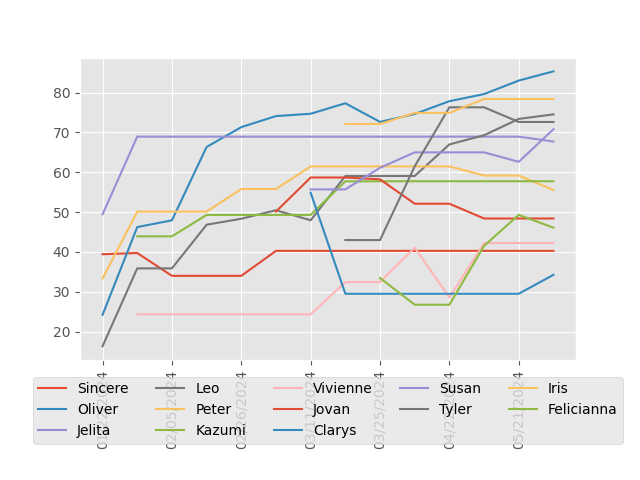
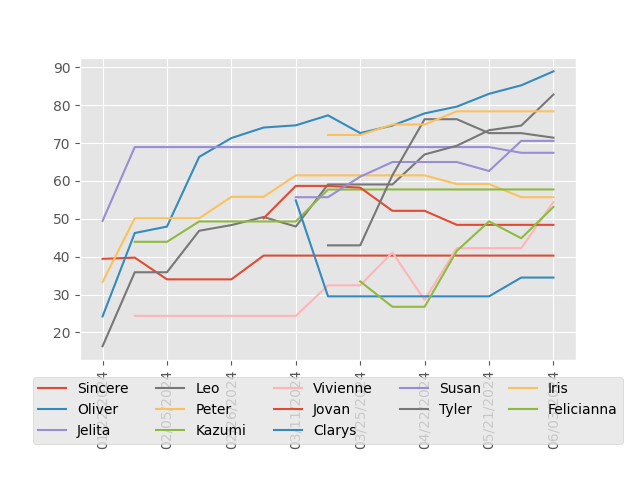
update rankings

diff --git a/README.md b/README.md
@@ -6,38 +6,40 @@
 | Player | ELO | Wins | Losses | Win % | Best Game |
 | --- | --- | --- | --- | --- | --- |
 | Ted | 109.30 | 9 | 0 | 100% | Fetch |
+| Oliver | 88.92 | 21 | 28 | 43% | Camel Up |
 | Simon | 86.00 | 7 | 1 | 88% | Secret Hitler |
-| Oliver | 85.31 | 20 | 27 | 43% | Coup |
+| Leo | 82.80 | 15 | 20 | 43% | Codenames |
 | Iris | 78.37 | 5 | 6 | 45% | Codenames |
-| Leo | 74.52 | 14 | 19 | 42% | Codenames |
-| Tyler | 72.61 | 6 | 6 | 50% | Camel Up |
-| Susan | 70.80 | 6 | 6 | 50% | Wavelength |
-| Jelita | 67.71 | 5 | 5 | 50% | Secret Hitler |
+| Tyler | 71.41 | 6 | 8 | 43% | Camel Up |
+| Susan | 70.57 | 6 | 6 | 50% | Wavelength |
+| Jelita | 67.42 | 5 | 5 | 50% | Secret Hitler |
 | Aaron | 61.04 | 5 | 4 | 56% | Bang |
 | Jackie | 58.22 | 2 | 1 | 67% | Wavelength |
 | Kazumi | 57.74 | 4 | 8 | 33% | Camel Up |
 | Abhi | 56.81 | 3 | 1 | 75% | Avalon |
+| Peter | 55.70 | 7 | 11 | 39% | Bang |
 | Kenny | 55.66 | 3 | 3 | 50% | Codenames |
-| Peter | 55.55 | 7 | 11 | 39% | Bang |
 | Harsha | 55.11 | 5 | 4 | 56% | Wavelength |
-| Sammie | 49.51 | 2 | 1 | 67% | Codenames |
+| Vivienne | 54.44 | 4 | 7 | 36% | Avalon |
+| Felicianna | 53.13 | 5 | 11 | 31% | Camel Up |
+| Sammi | 50.13 | 3 | 2 | 60% | Bang |
+| Viktoria | 48.54 | 2 | 6 | 25% | Love Letter |
 | Jovan | 48.40 | 5 | 7 | 42% | Secret Hitler |
 | Dan | 48.28 | 2 | 5 | 29% | Wavelength |
-| Viktoria | 46.85 | 2 | 5 | 29% | Love Letter |
-| Felicianna | 46.10 | 5 | 9 | 36% | Codenames |
-| Vivienne | 42.26 | 3 | 7 | 30% | Avalon |
 | Sincere | 40.28 | 3 | 8 | 27% | Coup |
 | Siri | 39.66 | 1 | 3 | 25% | Love Letter |
+| Leonardo | 37.58 | 0 | 1 | 0% | Camel Up |
 | Joyce | 35.20 | 0 | 1 | 0% | Shifty Eyed Spies |
 | Icy | 35.20 | 0 | 1 | 0% | Shifty Eyed Spies |
-| Clarys | 34.26 | 3 | 7 | 30% | Love Letter |
-| Wincy | 33.12 | 1 | 2 | 33% | Secret Hitler |
+| Clarys | 34.49 | 3 | 7 | 30% | Love Letter |
+| Wincy | 32.69 | 1 | 2 | 33% | Secret Hitler |
 | Julie | 32.58 | 0 | 1 | 0% | Incan Gold |
+| Feliciann | 31.43 | 0 | 1 | 0% | Bang |
 | Queenie | 31.20 | 2 | 7 | 22% | Codenames |
-| Feliciann | 30.77 | 0 | 1 | 0% | Secret Hitler |
+| Cameron | 29.64 | 0 | 1 | 0% | Camel Up |
 | Rebecca | 29.07 | 0 | 1 | 0% | Avalon |
 | Daphne | 27.49 | 0 | 1 | 0% | Secret Hitler |
-| Sara | 26.61 | 1 | 8 | 11% | Exploding Kittens |
+| Sara | 26.83 | 1 | 8 | 11% | Exploding Kittens |
 | Dorine | 25.68 | 1 | 3 | 25% | Avalon |
 | Trista | 24.24 | 1 | 8 | 11% | Wavelength |
 | Ellabelle | 21.78 | 0 | 3 | 0% | Secret Hitler |
@@ -97,14 +99,18 @@
 
 | Player | ELO | Wins | Losses | Win % |
 | --- | --- | --- | --- | --- |
-| Oliver | 49.61  | 1 | 0 | 100% |
+| Vivienne | 50.21  | 1 | 0 | 100% |
+| Sammi | 50.21  | 1 | 0 | 100% |
 | Peter | 49.61  | 1 | 0 | 100% |
 | Aaron | 49.61  | 1 | 0 | 100% |
+| Leo | 49.38  | 1 | 1 | 50% |
+| Oliver | 47.32  | 1 | 1 | 50% |
 | Kazumi | 36.10  | 0 | 1 | 0% |
 | Jelita | 36.10  | 0 | 1 | 0% |
-| Leo | 36.10  | 0 | 1 | 0% |
 | Trista | 36.10  | 0 | 1 | 0% |
 | Sincere | 36.10  | 0 | 1 | 0% |
+| Tyler | 34.49  | 0 | 1 | 0% |
+| Feliciann | 34.49  | 0 | 1 | 0% |
 
 ### Secret Hitler
 
@@ -113,31 +119,30 @@
 | Simon | 64.08  | 4 | 0 | 100% |
 | Tyler | 58.03  | 3 | 0 | 100% |
 | Jovan | 55.39  | 3 | 0 | 100% |
-| Jelita | 51.55  | 2 | 0 | 100% |
-| Oliver | 47.33  | 4 | 3 | 57% |
-| Susan | 46.70  | 2 | 1 | 67% |
-| Peter | 45.58  | 2 | 1 | 67% |
-| Wincy | 42.84  | 1 | 0 | 100% |
+| Jelita | 51.83  | 2 | 0 | 100% |
+| Oliver | 47.55  | 4 | 3 | 57% |
+| Susan | 46.96  | 2 | 1 | 67% |
+| Peter | 45.39  | 2 | 1 | 67% |
+| Wincy | 43.13  | 1 | 0 | 100% |
 | Harsha | 42.82  | 1 | 0 | 100% |
 | Kazumi | 42.70  | 2 | 1 | 67% |
-| Felicianna | 41.38  | 2 | 1 | 67% |
 | Viktoria | 40.70  | 1 | 0 | 100% |
 | Jackie | 40.70  | 1 | 0 | 100% |
 | Vivienne | 38.76  | 1 | 1 | 50% |
 | Queenie | 36.16  | 1 | 1 | 50% |
-| Leo | 34.58  | 2 | 3 | 40% |
+| Felicianna | 35.94  | 2 | 2 | 50% |
+| Leo | 34.41  | 2 | 3 | 40% |
 | Aaron | 32.00  | 1 | 2 | 33% |
-| Clarys | 30.70  | 1 | 2 | 33% |
+| Clarys | 30.51  | 1 | 2 | 33% |
 | Dorine | 29.11  | 0 | 1 | 0% |
 | Dan | 29.11  | 0 | 1 | 0% |
 | Siri | 27.85  | 0 | 1 | 0% |
 | Daphne | 27.53  | 0 | 1 | 0% |
-| Feliciann | 27.47  | 0 | 1 | 0% |
 | Ellabelle | 27.00  | 0 | 1 | 0% |
-| Sammie | 27.00  | 0 | 1 | 0% |
+| Sammi | 27.00  | 0 | 1 | 0% |
 | Kenny | 26.94  | 0 | 1 | 0% |
 | Iris | 22.88  | 0 | 2 | 0% |
-| Sara | 21.37  | 0 | 2 | 0% |
+| Sara | 21.17  | 0 | 2 | 0% |
 | Trista | 17.64  | 0 | 3 | 0% |
 
 ### Codenames
@@ -149,7 +154,7 @@
 | Oliver | 61.65  | 6 | 4 | 60% |
 | Kenny | 46.59  | 2 | 1 | 67% |
 | Felicianna | 46.59  | 2 | 0 | 100% |
-| Sammie | 46.59  | 2 | 0 | 100% |
+| Sammi | 46.59  | 2 | 0 | 100% |
 | Jelita | 43.90  | 1 | 0 | 100% |
 | Kazumi | 43.90  | 1 | 0 | 100% |
 | Harsha | 42.43  | 1 | 1 | 50% |
@@ -214,15 +219,20 @@
 
 | Player | ELO | Wins | Losses | Win % |
 | --- | --- | --- | --- | --- |
-| Tyler | 63.39  | 1 | 0 | 100% |
-| Oliver | 57.71  | 1 | 1 | 50% |
-| Leo | 54.15  | 0 | 2 | 0% |
+| Oliver | 78.43  | 2 | 1 | 67% |
+| Leo | 68.26  | 0 | 3 | 0% |
+| Tyler | 66.07  | 1 | 1 | 50% |
+| Felicianna | 50.68  | 0 | 1 | 0% |
 | Kazumi | 47.13  | 0 | 1 | 0% |
 | Simon | 46.18  | 0 | 1 | 0% |
+| Leonardo | 38.24  | 0 | 1 | 0% |
+| Viktoria | 38.24  | 0 | 1 | 0% |
 | Siri | 37.40  | 0 | 1 | 0% |
 | Sara | 30.31  | 0 | 1 | 0% |
+| Cameron | 29.60  | 0 | 1 | 0% |
 | Harsha | 21.38  | 0 | 1 | 0% |
 | Vivienne | 16.88  | 0 | 1 | 0% |
+| Sammi | 16.40  | 0 | 1 | 0% |
 
 ### Here to Slay
 
